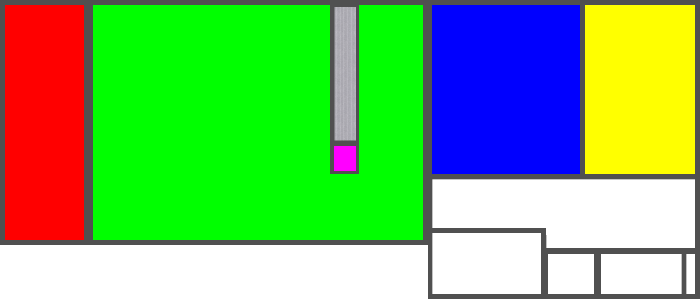
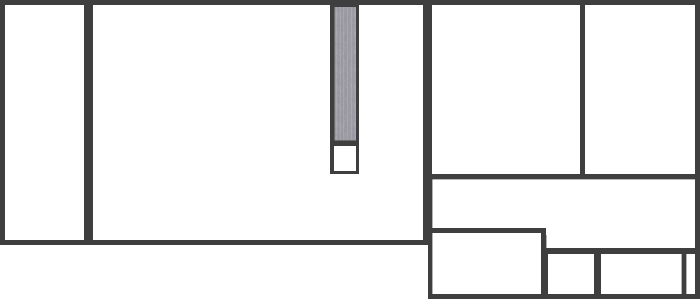
Added a faster mapdraw algorithm, not based on colors anymore

diff --git a/www/js/rhas/temperature.js b/www/js/rhas/temperature.js
@@ -34,7 +34,7 @@ function updateTemperatures(numberOfThermometers, updateOffset) {
 
 function updateTemperatureFieldsAndImage() {
 	var imgId = "mapimage";
-	var oldColors = new Array();
+	var points = new Array();
 	var labelxposes = new Array();
 	var labelyposes = new Array();
 	var labeltexts = new Array();
@@ -46,7 +46,7 @@ function updateTemperatureFieldsAndImage() {
   		async: false,
 	}).done(function(data) {
 		$.each(data.map.temperaturezones, function(i, temperaturezone) {
-			oldColors[temperaturezone.sensorid] = temperaturezone.color;
+			points[temperaturezone.sensorid] = temperaturezone.points;
 			labelxposes[temperaturezone.sensorid] = temperaturezone.labelposx;
 			labelyposes[temperaturezone.sensorid] = temperaturezone.labelposy;
 		});
@@ -83,26 +83,26 @@ function updateTemperatureFieldsAndImage() {
 		});
 	});
 	
-	for (var i=0; i < oldColors.length; i++) {
-	  if (!(i in newColors)) {
-	    newColors[i] = "#999999";
-	  } 
-	}
-	
 	//Update map image (takes a long time)
-	var imgorig = document.getElementById(imgId + "_orig");
 	var imgdest = document.getElementById(imgId);
 
   var canvas = document.createElement('canvas');
   var context = canvas.getContext("2d");
-  canvas.width = imgorig.width;
-  canvas.height = imgorig.height;
+  canvas.width = imgdest.width;
+  canvas.height = imgdest.height;
 
   // draw the image on the temporary canvas
-  context.drawImage(imgorig, 0, 0, canvas.width, canvas.height);
+  context.drawImage(imgdest, 0, 0, canvas.width, canvas.height);
     
-  //RecolorImage
-  recolorImage(canvas, context, oldColors, newColors);
+  //write rectangles for every room
+  for (var i=0; i < points.length; i++) {
+	  if (!(i in newColors)) {
+	    newColors[i] = "#999999";
+	  }
+	  drawShape(context, newColors[i], points[i]); 
+	}
+  
+  //Write labels
 	writeText(canvas, context, labelxposes, labelyposes, labeltexts);
     
   //Put the canvas back on screen

diff --git a/www/js/rhas/helper.js b/www/js/rhas/helper.js
@@ -30,33 +30,15 @@ function interpolateColor(minColor,maxColor,maxDepth,depth){
     return color;
 }
 
-function recolorImage(canvas, context, oldColors, newColors) {
-	function h2d(h) {return parseInt(h,16);}
-	
-    // pull the entire image into an array of pixel data
-    var imageData = context.getImageData(0, 0, canvas.width, canvas.height);
-
-    // examine every pixel, 
-    // change any old rgb to the new-rgb
-    for (var i = 0; i < imageData.data.length; i += 4) {
-    	for (var j = 0; j < oldColors.length; j++) {
-    		var oldRed = h2d(oldColors[j].substr(1,2));
-			var oldGreen = h2d(oldColors[j].substr(3,2));
-			var oldBlue = h2d(oldColors[j].substr(5,2));
-			var newRed = h2d(newColors[j].substr(1,2));
-			var newGreen = h2d(newColors[j].substr(3,2));
-			var newBlue = h2d(newColors[j].substr(5,2));
-				
-			if (imageData.data[i] == oldRed && imageData.data[i + 1] == oldGreen && imageData.data[i + 2] == oldBlue) {
-            	// change to your new rgb
-            	imageData.data[i] = newRed;
-            	imageData.data[i + 1] = newGreen;
-            	imageData.data[i + 2] = newBlue;
-        	}
-    	}
-    }
-    // put the altered data back on the canvas  
-    context.putImageData(imageData, 0, 0);
+function drawShape(context, fillcolor, poly) {
+  context.beginPath();
+  context.fillStyle=fillcolor;
+  context.moveTo(poly[0], poly[1]);
+  for( item=2 ; item < poly.length-1 ; item+=2 ){
+    context.lineTo( poly[item] , poly[item+1]);
+  }
+  context.closePath();
+  context.fill();
 }
 
 function writeText(canvas, context, xposes, yposes, text) {
